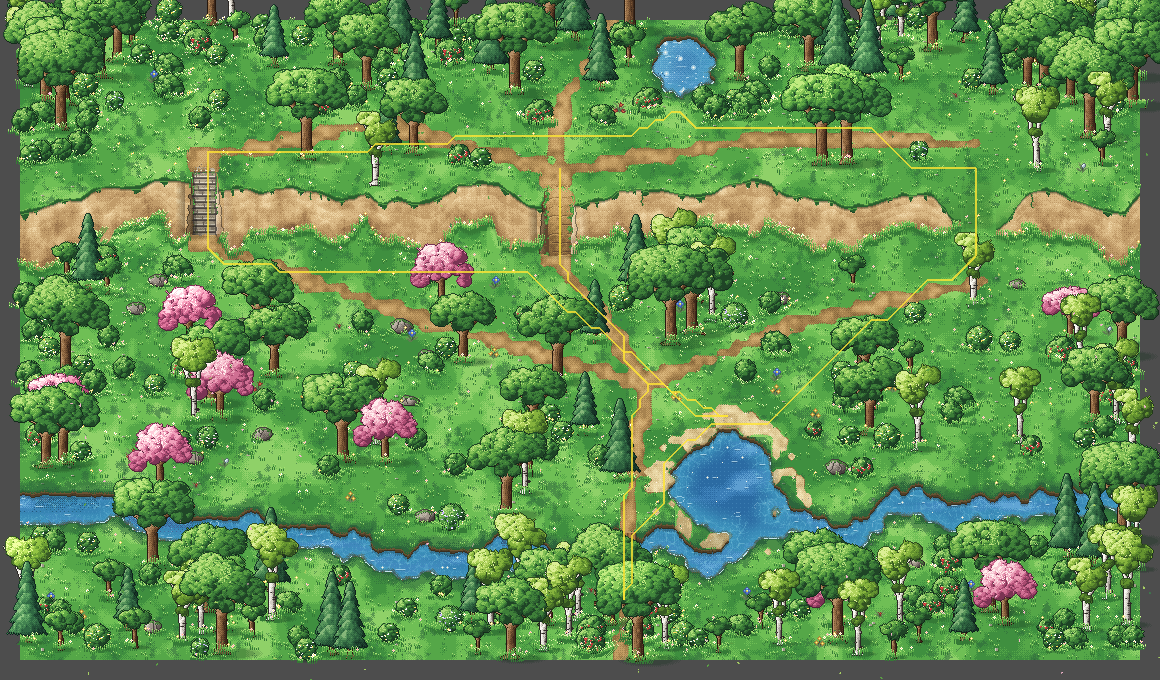
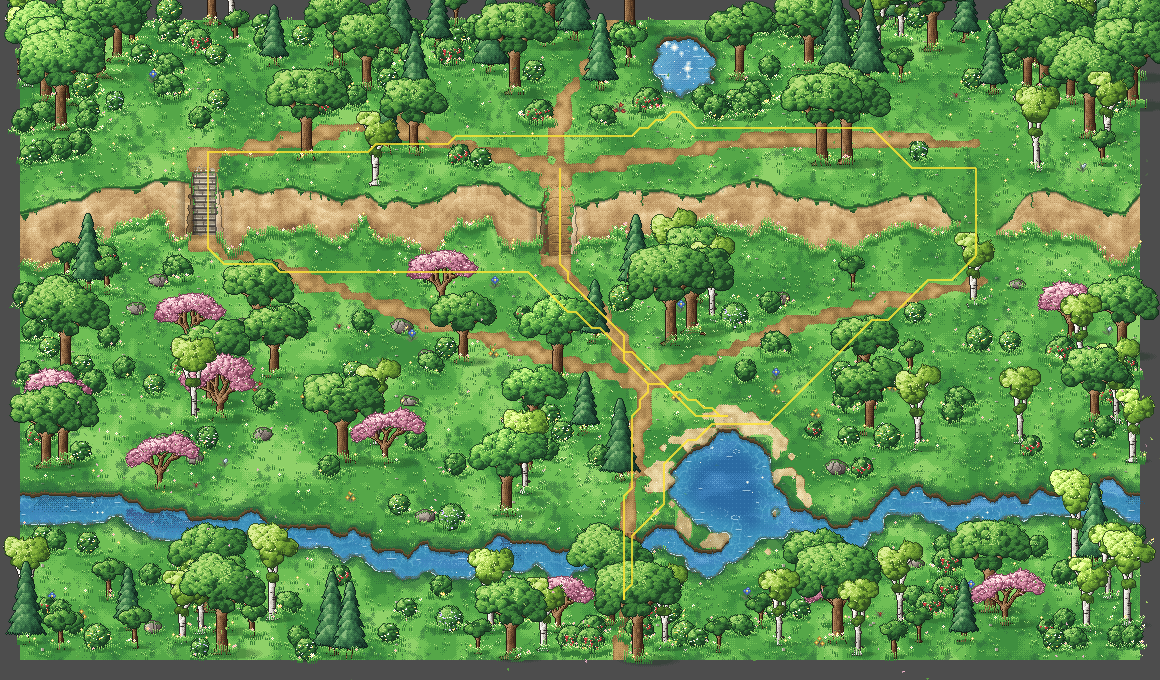
Fix racing, flickering tree sway; redraw blossom trees as cherries
- Wind.now() uses game time (physics frames + interpolation fraction), not the
  wall clock, so sway keeps its speed in recordings and slow frames; crown
  layers move in 1/3-pixel steps instead of whole-pixel jumps
- Blossom trees: short forked trunk, limbs spreading into an umbrella of flat
  blossom clouds in uneven tiers with branches showing, fine petal texture,
  mauve undersides with a few leaves, drooping clusters, softer pink
- Random maps keep trees off the bank just below water

Claude-Session: https://claude.ai/code/session_01Y3QepJTJgk9rCJ93wTDK78

diff --git a/tools/art/vale/flora.py b/tools/art/vale/flora.py
@@ -26,7 +26,7 @@ RAMPS = {
     "oak": ["#132a1b", "#1f4427", "#2d6232", "#3f803b", "#5ba044", "#86c25a", "#b8e07e"],
     "birch": ["#22381c", "#335222", "#4a7229", "#649331", "#86b33f", "#b0d35f", "#dcef9a"],
     "pine": ["#0d211b", "#163327", "#204833", "#2c5f3f", "#3d784c", "#58955e", "#86b77e"],
-    "blossom": ["#4c2238", "#7a3456", "#a84a73", "#d06f97", "#ea9dbb", "#f8c8da", "#fff0f5"],
+    "blossom": ["#5a2f45", "#83465f", "#ad6684", "#d18aa6", "#e9adc3", "#f7d2de", "#fff3f6"],
     "bush": ["#122a1a", "#1d4325", "#2a5f2f", "#3b7c37", "#579b45", "#7fbd58", "#aedb7a"],
     "bark": ["#25170e", "#3d281a", "#5a3d26", "#7a5636", "#9a7249", "#b8916a"],
     "birchbark": ["#2b2724", "#6d6760", "#a7a198", "#d2cdc3", "#ebe7de", "#fbf9f3"],
@@ -301,6 +301,8 @@ def tree(kind, seed, scale=1.0):
     """
     if kind == "pine":
         return pine(seed, scale)
+    if kind == "blossom":
+        return blossom_tree(seed, scale)
     rnd = random.Random(seed)
     k = TREE_KINDS[kind]
     w, h = int(k["w"] * scale), int(k["h"] * scale)
@@ -373,6 +375,117 @@ def tree(kind, seed, scale=1.0):
         height = 1 - (mean_y - y0) / max(y1 - y0, 1)  # higher clumps sway more
         sway = 0.45 if g == -1 else 0.75 + height * 0.6
         layers.append((img.im, sway * (1.25 if kind == "sapling" else 1.0)))
+    outline(tr, bramp, lit_soft=False)
+    return tr.im, layers, (ax, ay)
+
+
+def clampf_ang(a):
+    """Keep a limb at least ~22 degrees above horizontal (angles measured with y down)."""
+    lo, hi = -math.pi + 0.38, -0.38
+    return min(max(a, lo), hi)
+
+
+def blossom_tree(seed, scale=1.0):
+    """A cherry in bloom: a short trunk forking into a few limbs that spread wide, carrying flat
+    clouds of blossom in uneven tiers with gaps where the dark branches show through; fine petal
+    texture, a mauve shaded underside with a few green leaves, airy edges and loose petals.
+    Each limb's blossom is its own sway layer, like tree()."""
+    rnd = random.Random(seed)
+    w, h = int(100 * scale), int(86 * scale)
+    ramp = RAMPS["blossom"]
+    bramp = RAMPS["bark"]
+    tr = Img(w, h)
+    ax, ay = w // 2, h - 4
+    tw = max(4, round(6.5 * scale))
+    lean = rnd.uniform(-0.2, 0.2)
+    fork_y = ay - h * rnd.uniform(0.24, 0.3)
+    trunk(tr, ax, ay, fork_y, tw, bramp, seed, lean=lean, roots=3)
+    fork = (ax + lean * 6 * scale, fork_y)
+    clouds = []  # (cx, cy, rx, ry, group)
+
+    def grow(x, y, ang, length, width, depth, group):
+        ex, ey = x + math.cos(ang) * length, y + math.sin(ang) * length
+        branch(tr, x, y, ex, ey, width, max(0.6, width * 0.6), bramp, seed + len(clouds) * 13 + depth)
+        if depth == 0:
+            r = rnd.uniform(9.0, 13.0) * scale
+            clouds.append((ex, ey - r * 0.1, r, r * rnd.uniform(0.5, 0.62), group))
+            if rnd.random() < 0.55:  # a smaller cluster drooping under the tip breaks the flat underside
+                sr = r * rnd.uniform(0.45, 0.6)
+                clouds.append((ex + rnd.uniform(-r, r) * 0.5, ey + r * 0.42, sr, sr * 0.75, group))
+            return
+        if depth == 1 and rnd.random() < 0.7:  # a smaller cloud on the limb ties the canopy together
+            r = rnd.uniform(7.0, 9.5) * scale
+            clouds.append((ex, ey - 2, r, r * 0.55, group))
+        for c in range(2):
+            off = math.radians(rnd.uniform(18, 34)) * (1 if c else -1)
+            # limbs reach outwards more than up: an umbrella, not a ball
+            nang = ang + off
+            nang = -math.pi / 2 + (nang + math.pi / 2) * 1.12
+            nang = clampf_ang(nang)
+            grow(ex, ey, nang, length * rnd.uniform(0.62, 0.78), width * 0.6, depth - 1, group)
+
+    limbs = rnd.choice([3, 3, 4])
+    for g in range(limbs):
+        spread = math.radians(rnd.uniform(62, 74))
+        base_ang = -math.pi / 2 + (g - (limbs - 1) / 2) * spread / max(1, (limbs - 1) / 2) * 0.62 + rnd.uniform(-0.12, 0.12)
+        grow(fork[0], fork[1] + rnd.uniform(0, 3), base_ang, h * rnd.uniform(0.2, 0.26), tw * 0.45, 2, g)
+    # a few clouds high in the middle to round off the top, on their own sway layer
+    tips = clouds[:]
+    mx = sum(c[0] for c in tips) / len(tips)
+    top = min(c[1] - c[3] for c in tips)
+    for k in range(rnd.randint(2, 3)):
+        r = rnd.uniform(9.0, 12.0) * scale
+        clouds.append((mx + rnd.uniform(-14, 14) * scale, top + r * 0.55 + rnd.uniform(0, 5), r, r * 0.55, -1))
+    fixed = []
+    for cx, cy, rx, ry, g in clouds:
+        fixed.append((min(max(cx, rx + 3), w - rx - 3), max(cy, ry + 3), rx, ry, g))
+    clouds = fixed
+    x0 = min(c[0] - c[2] for c in clouds)
+    x1 = max(c[0] + c[2] for c in clouds)
+    y0 = min(c[1] - c[3] for c in clouds)
+    y1 = max(c[1] + c[3] for c in clouds)
+    bounds = ((x0 + x1) / 2, (y0 + y1) / 2 - (y1 - y0) * 0.1, (x1 - x0) / 2, (y1 - y0) / 2)
+
+    groups = sorted({c[4] for c in clouds}, key=lambda g: (g != -1, sum(c[1] for c in clouds if c[4] == g)
+                                                           / max(1, sum(1 for c in clouds if c[4] == g))))
+    imgs = []
+    for g in groups:
+        ell = [(cx, cy, rx, ry) for cx, cy, rx, ry, gg in clouds if gg == g]
+        img = Img(w, h)
+        foliage(img, ell, ramp, seed + 50 + g * 7, cluster_r=(2.4, 3.8), density=1.6, bounds=bounds)
+        prnd = random.Random(seed + 90 + g)
+        # each cloud: a mauve shaded underside with a few green leaves, a lit top
+        for cx, cy, rx, ry in ell:
+            for y in range(int(cy - ry) - 1, int(cy + ry) + 2):
+                for x in range(int(cx - rx) - 1, int(cx + rx) + 2):
+                    px = img.get(x, y)
+                    if not px[3]:
+                        continue
+                    dx, dy = (x + 0.5 - cx) / rx, (y + 0.5 - cy) / ry
+                    if dx * dx + dy * dy > 1.05:
+                        continue
+                    if dy > 0.4 and prnd.random() < 0.4:
+                        img.set(x, y, hexc(ramp[2 if dy > 0.75 else 3]))
+                        if prnd.random() < 0.08:
+                            img.set(x, y, hexc("#6f9a4c" if prnd.random() < 0.6 else "#4f7a3c"))
+                    elif dy < -0.45 and dx < 0.3 and prnd.random() < 0.18:
+                        img.set(x, y, hexc(ramp[-1] if prnd.random() < 0.4 else ramp[-2]))
+        # airy edge: loose petals just outside the silhouette
+        for cx, cy, rx, ry in ell:
+            for _ in range(int(rx * 1.4)):
+                a = prnd.uniform(0, math.tau)
+                d = prnd.uniform(1.0, 1.25)
+                px, py = cx + math.cos(a) * rx * d, cy + math.sin(a) * ry * d
+                if not img.get(px, py)[3]:
+                    img.set(px, py, hexc(ramp[prnd.choice([3, 4, 5])]))
+        imgs.append((g, ell, img))
+    union = [[any(im.px[x, y][3] for _, _, im in imgs) for x in range(w)] for y in range(h)]
+    layers = []
+    for g, ell, img in imgs:
+        silhouette_outline(img, ramp, union)
+        mean_y = sum(e[1] for e in ell) / len(ell)
+        height = 1 - (mean_y - y0) / max(y1 - y0, 1)
+        layers.append((img.im, 0.45 if g == -1 else 0.7 + height * 0.5))
     outline(tr, bramp, lit_soft=False)
     return tr.im, layers, (ax, ay)
 

diff --git a/CHANGELOG.md b/CHANGELOG.md
@@ -2,6 +2,16 @@
 
 按时间倒序记录每次更新。版本号用 `0.主版本.小版本`：画面方向或架构发生变化时加主版本号，同一方向上的调整加小版本号。括号里是对应的提交。
 
+## v0.11.3 · 树摆动修复、花树重画（2026-10-12）
+
+- **树摆动过快、闪烁**：风的时钟原来用的是现实时间，录视频（比实时慢）或者游戏卡顿时，树会摆得飞快，几层树冠一格一格地跳，看起来在闪。现在改用游戏时间，树冠按 1/3 像素平滑摆动。
+- **花树重画**：原来的粉色花树是一团圆鼓鼓的"棉花糖"。现在改成樱花树的样子：
+  - 短树干分出几根向两侧伸展的枝条，树冠是伞形。
+  - 由几片扁平的花云高低错落组成，中间露出深色枝条。
+  - 花瓣纹理更细，下侧是淡紫的阴影，夹着少量绿叶，边缘有零星花瓣。
+  - 枝梢下垂的小花簇打破平直的底边，粉色也更柔和。
+- **随机地图**：大树不再长在河岸紧贴水面的位置，免得树干看起来像是立在水里。
+
 ## v0.11.1 · 镜头平滑（2026-10-12）
 
 - 画面改成按窗口分辨率渲染（像素素材仍放大 3 倍），并关闭"像素对齐"，镜头和角色可以按 1/3 像素平滑移动，不再一格一格地跳。
